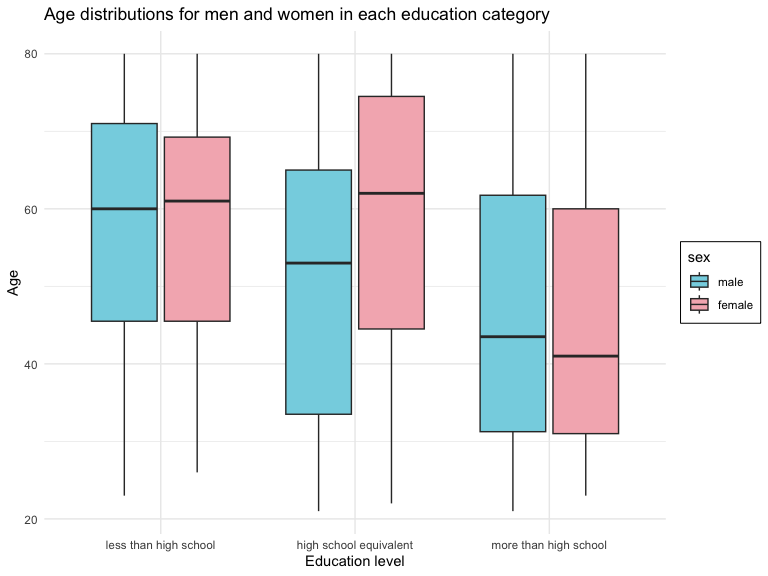
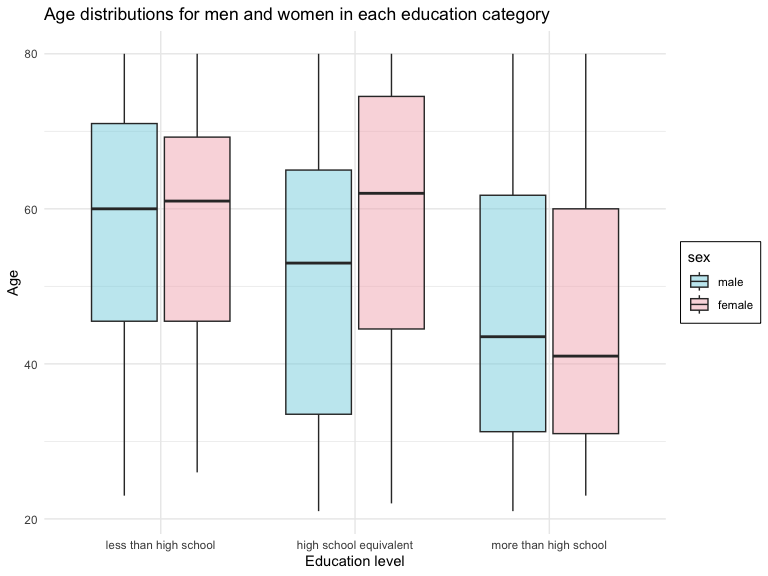
problem 3 - 3 panel plot

diff --git a/p8105_hw3_wz2630.md b/p8105_hw3_wz2630.md
@@ -339,7 +339,7 @@ education category
 ``` r
 nhanes |> 
   ggplot(aes(x = education, y = age, fill = sex)) +
-  geom_boxplot() +
+  geom_boxplot(alpha = 0.50) +
   labs(x = "Education level",
        y = "Age",
        title = "Age distributions for men and women in each education category") +
@@ -349,3 +349,84 @@ nhanes |>
 ```
 
 <img src="p8105_hw3_wz2630_files/figure-gfm/unnamed-chunk-17-1.png" width="90%" />
+**Comments:** Based on the boxplots, we can see that the age
+distributions for “less than high school” and “more than high school”
+categories are similar when compared between male and females in their
+respective groups. However, the age distributions for “high school
+equivalent” category are quite different between male and females; males
+with “high school equivalent” are younger than females overall from the
+same category. This category also has the largest age range.
+
+total activity over the day. Using your tidied dataset, aggregate across
+minutes to create a total activity variable for each participant. Plot
+these total activities (y-axis) against age (x-axis); your plot should
+compare men to women and have separate panels for each education level.
+Include a trend line or a smooth to illustrate differences. Comment on
+your plot.
+
+``` r
+# create new variable
+nhanes_total <-
+  nhanes |> 
+    mutate(total_activity = rowSums(across(min1:min1440), na.rm = TRUE))
+
+# make plots
+nhanes_total |> 
+ggplot(aes(x = age, y = total_activity, color = sex)) + 
+  geom_point(alpha = 0.5, size = 1.5) + 
+  geom_smooth(method = lm, se = FALSE) + 
+  facet_wrap(~education) + 
+  labs(x = "Age",
+       y = "Total Activity in a Day",
+       title = "Total Minutes of Activity in a Day Grouped by Education Level (Male vs Female)") +
+  theme(legend.position = "right",
+        legend.box.background = element_rect(),
+        panel.spacing = unit(1, "lines")) +
+  scale_fill_manual(values = wes_palette("Moonrise3", n = 2))
+```
+
+    ## `geom_smooth()` using formula = 'y ~ x'
+
+<img src="p8105_hw3_wz2630_files/figure-gfm/unnamed-chunk-18-1.png" width="90%" />
+**Comment:** Overall, there is a negative association between age and
+total physical activity across all 3 education levels. There is a
+decreased amount of physical activity in a day as age increases. The
+“less than high school” education level has overall more physical
+activity. Females tend to have more physical activity for both “high
+school equivalent” and “more than high school” education levels.
+
+Accelerometer data allows the inspection activity over the course of the
+day. Make a three-panel plot that shows the 24-hour activity time
+courses for each education level and use color to indicate sex.
+
+``` r
+# first we want to pivot the observation so each minute is its own observation and we can plot these xalues as x
+nhanes_pivotlonger <-
+  nhanes |> 
+  pivot_longer(cols = starts_with("min"), 
+               names_to = "minute", #turned "min_" into a minute column
+               values_to = "activity")  #turned all the time values to activity column
+  
+nhanes_pivotlonger |> 
+  ggplot(aes(x = minute, y = activity, color = sex)) + 
+  geom_point(alpha = 0.1, size = 0.5) + 
+  geom_smooth(se = FALSE) + 
+  facet_wrap(~education) + 
+  labs(x = "Minutes (in 24 hours)",
+       y = "Activity time (minutes)",
+       title = "24-hour activity time courses for each education level") + 
+  theme(legend.position = "right",
+        legend.box.background = element_rect(),
+        panel.spacing = unit(1, "lines"))
+```
+
+    ## `geom_smooth()` using method = 'loess' and formula = 'y ~ x'
+
+<img src="p8105_hw3_wz2630_files/figure-gfm/unnamed-chunk-19-1.png" width="90%" />
+**Describe in words any patterns or conclusions you can make based on
+this graph; including smooth trends may help identify differences:**
+
+- Based on the graphs, it is difficult to differentiate whether there is
+  difference in amount of physical activty in a 24hr period between male
+  and female.
+- 
